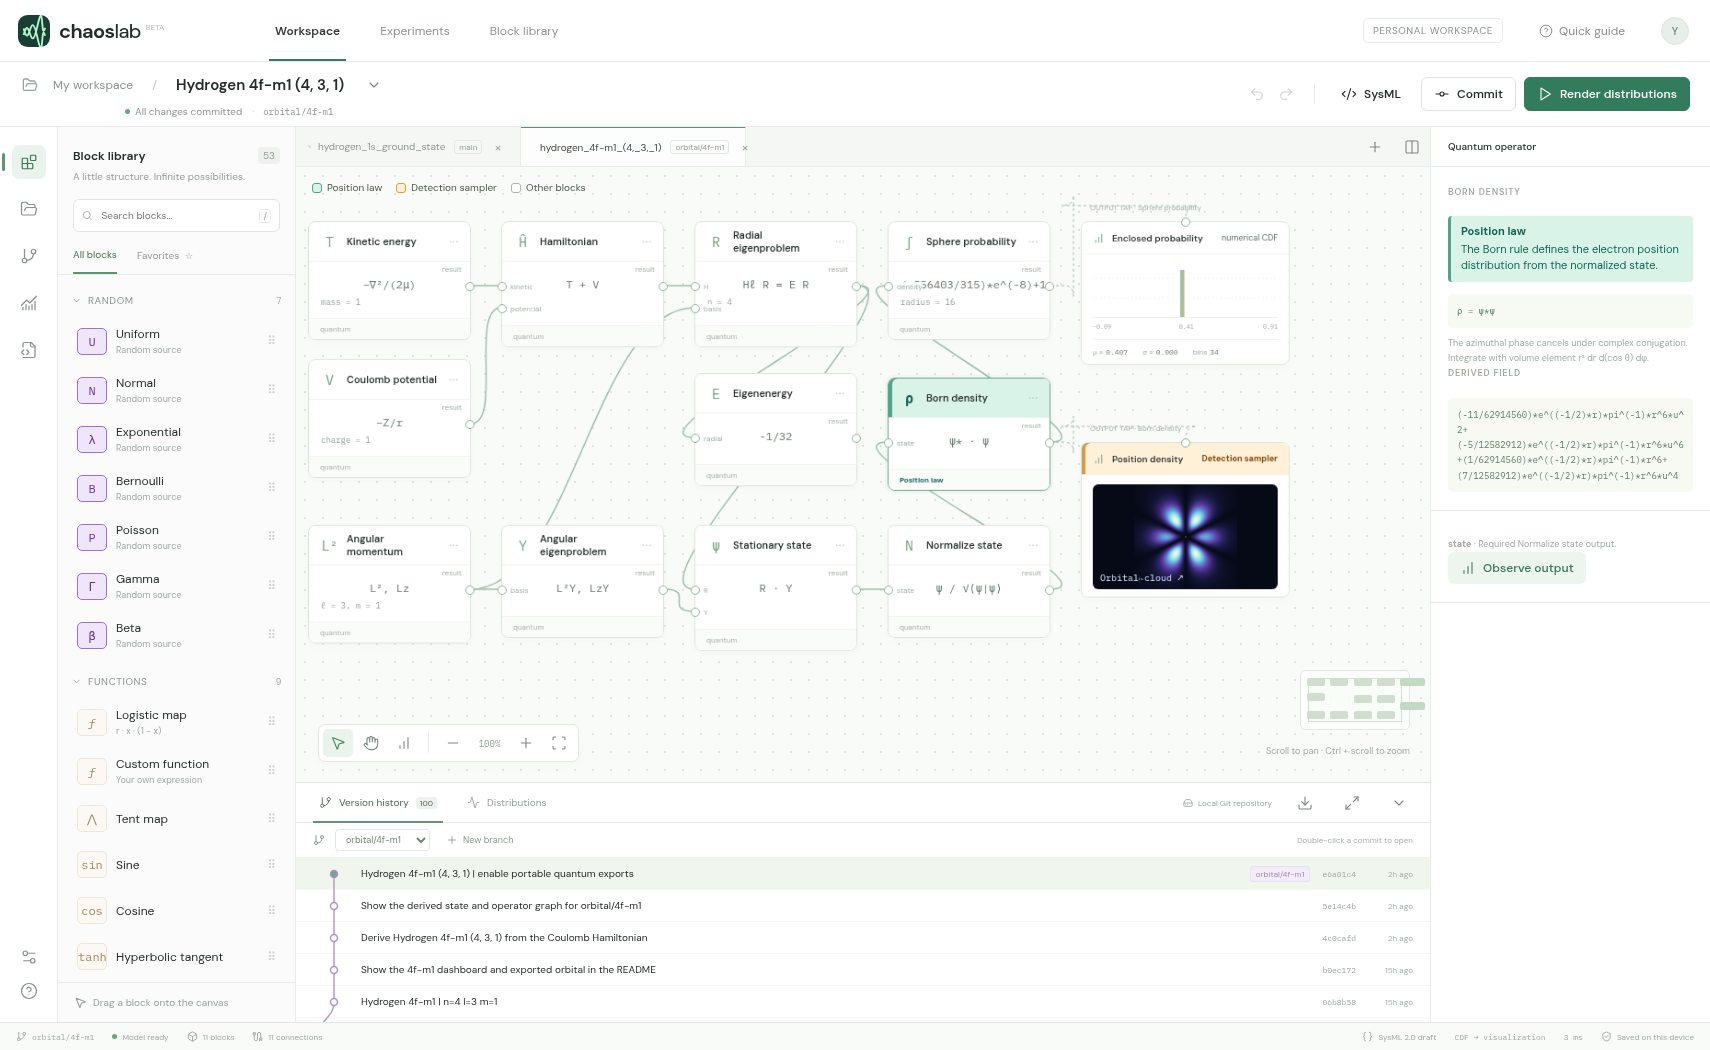
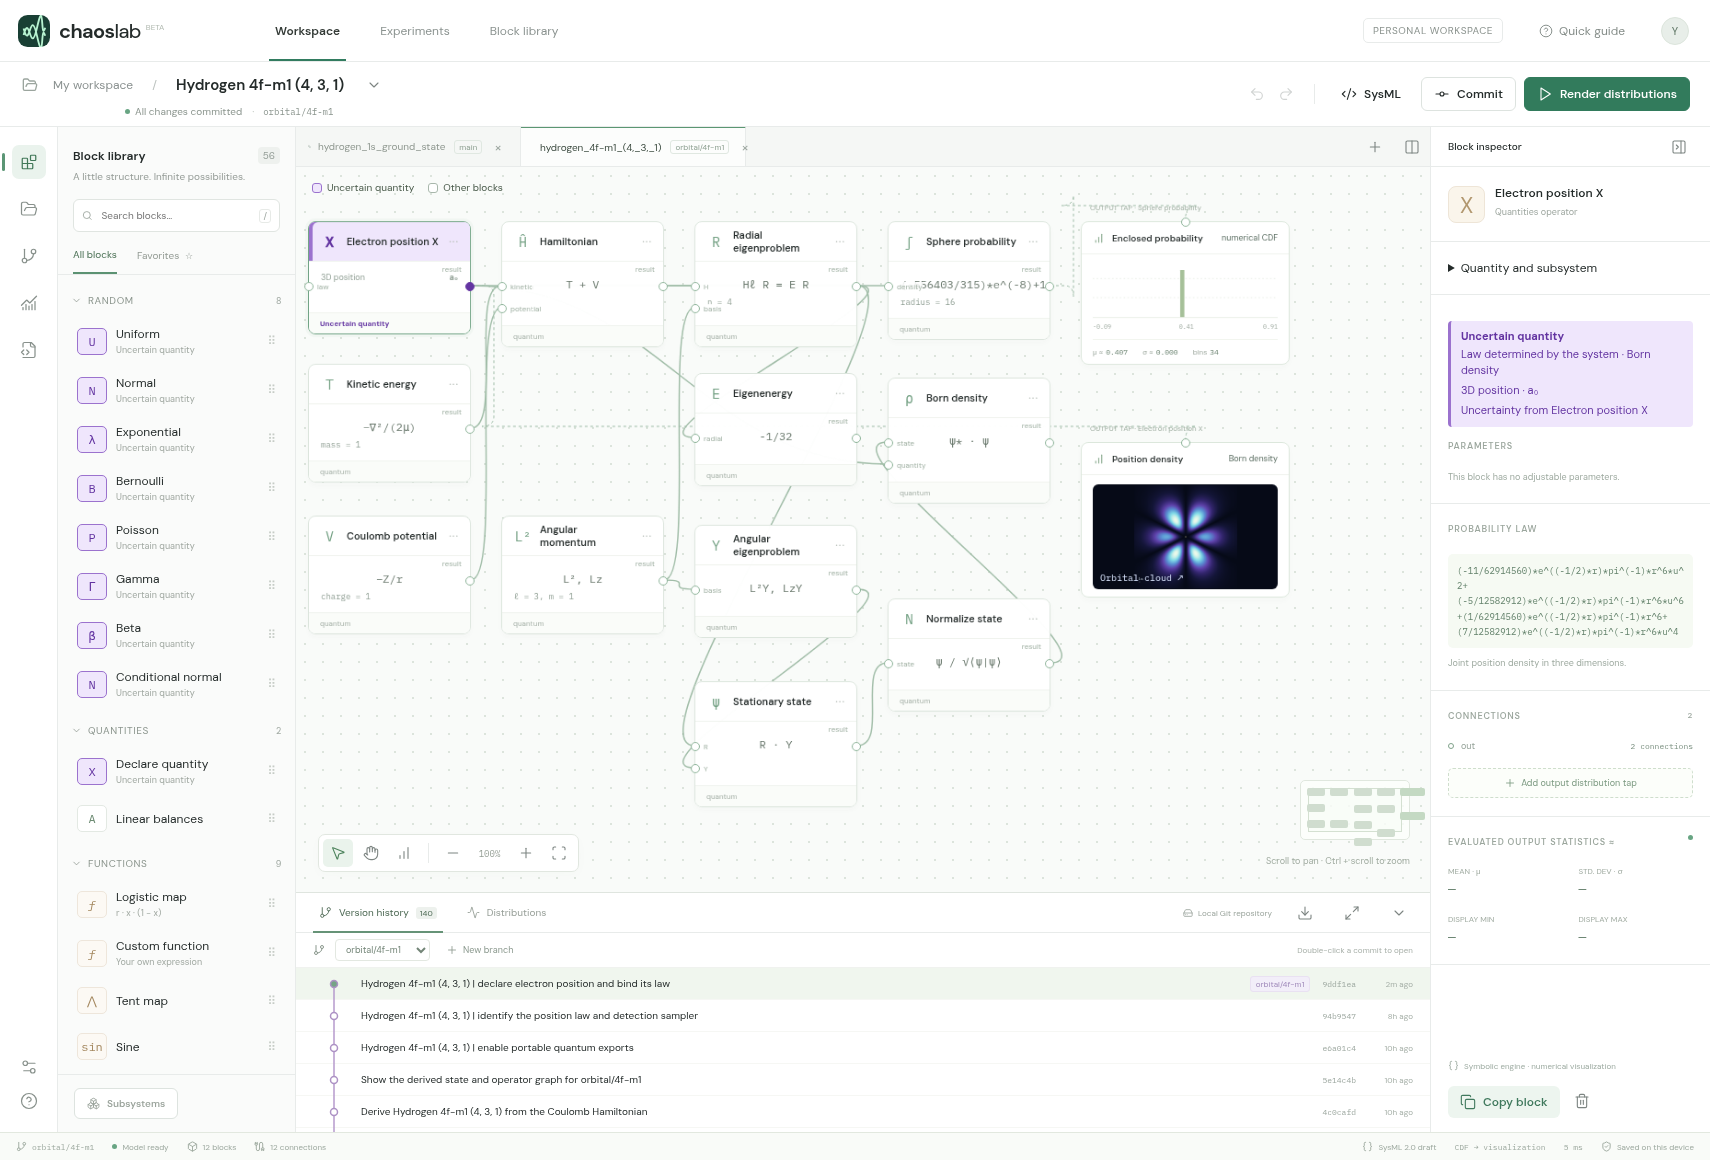
Show the position declaration and its law provider for orbital/4f-m1

diff --git a/studio.py b/studio.py
@@ -10,7 +10,7 @@ import tempfile
 import webbrowser
 
 ROOT = Path(__file__).resolve().parent
-STUDIO_REV = "5cbb600c6ee5baa24d159ddc6c974d68eb68f653"
+STUDIO_REV = "515ba96842af71b90f41019a508548a96e802665"
 STUDIO_REPO = "https://github.com/wa200508/chaos_lab.git"
 
 

diff --git a/README.md b/README.md
@@ -6,7 +6,7 @@ Open **Version history** in Chaos Lab to explore the 20 hydrogen designs in this
 
 The connected Hamiltonian and eigenstate solvers give $E=-1/32$ Hartree for this state.
 
-The purple **Electron position X** block declares the three-dimensional quantity in Bohr radii. Open its inspector to see **Born density** as its law provider. The sphere measurement and spatial tap both observe X. Projected detections draw from the final law; the central slice evaluates the density directly.
+The purple **Electron position X** block declares the three-dimensional quantity in Bohr radii. Open its inspector to see **Born density** as its law provider. The sphere measurement and spatial tap both observe X. Projected detections draw from the final law. The central slice evaluates the density directly.
 
 ![Chaos Lab dashboard with the 4f model, m = 1, open in version history](dashboard.png)
 
